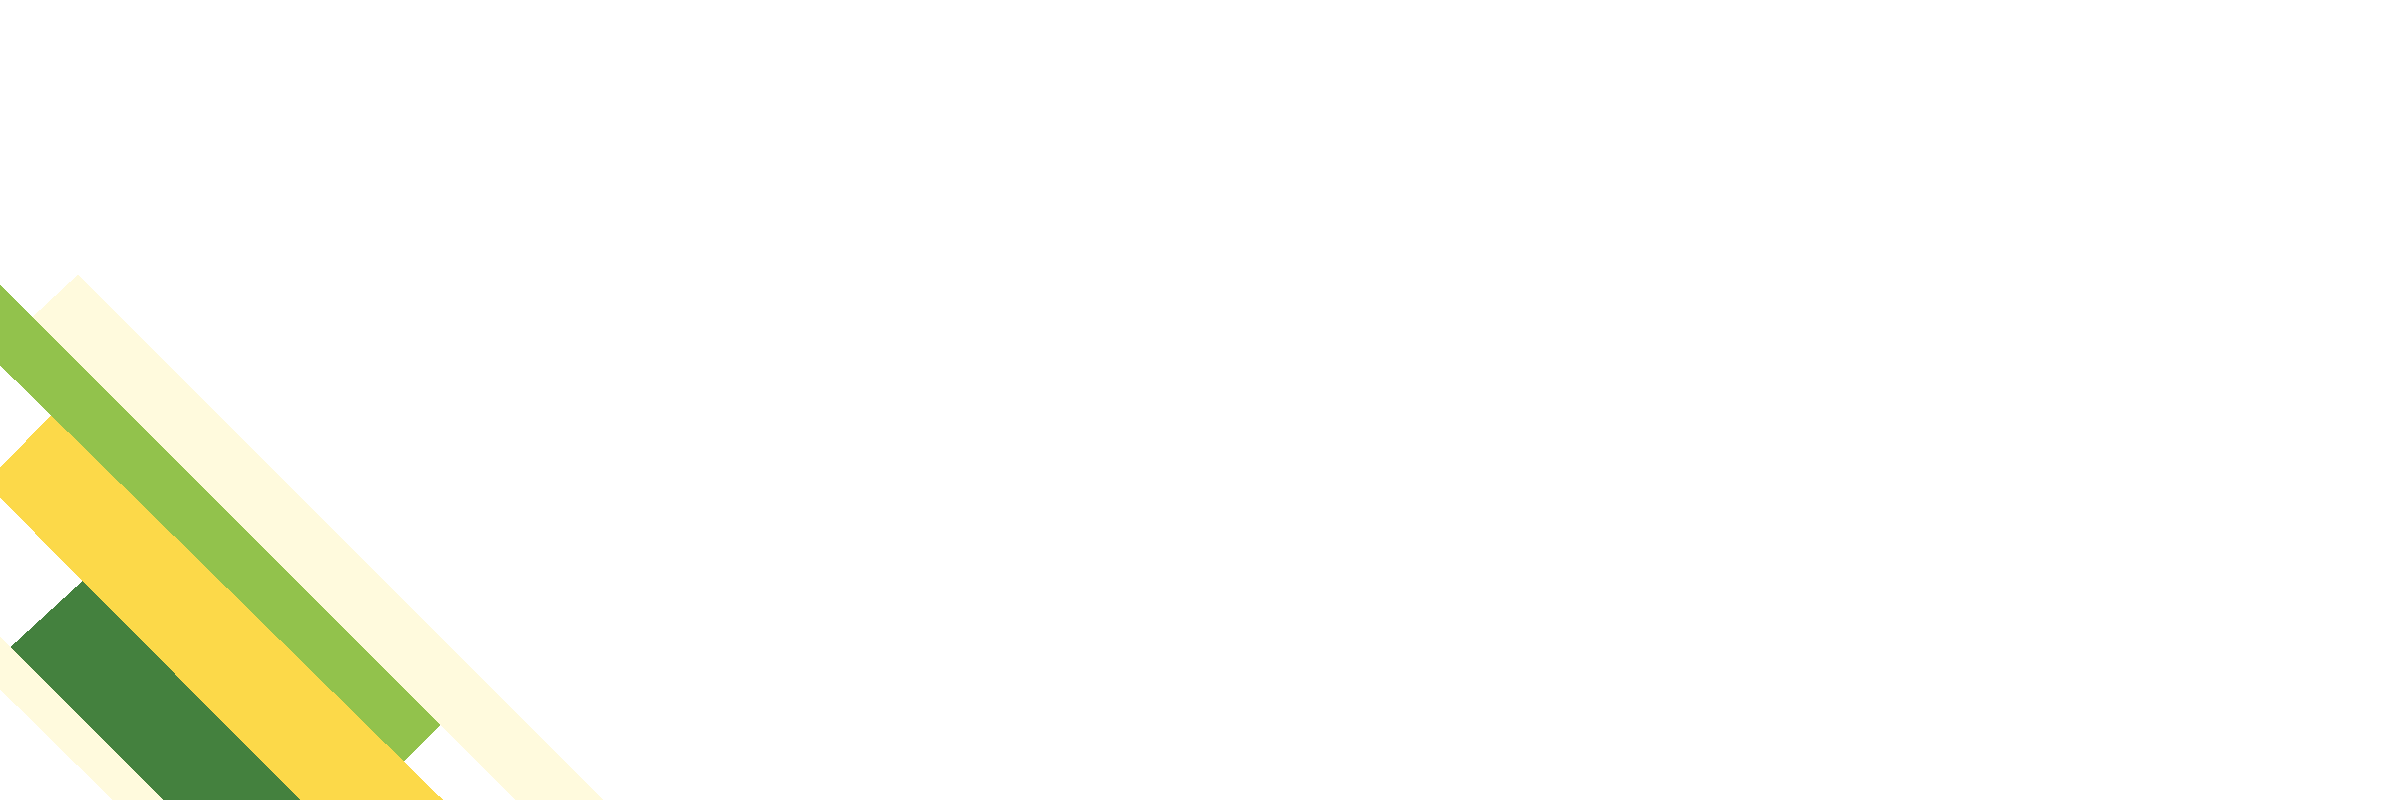
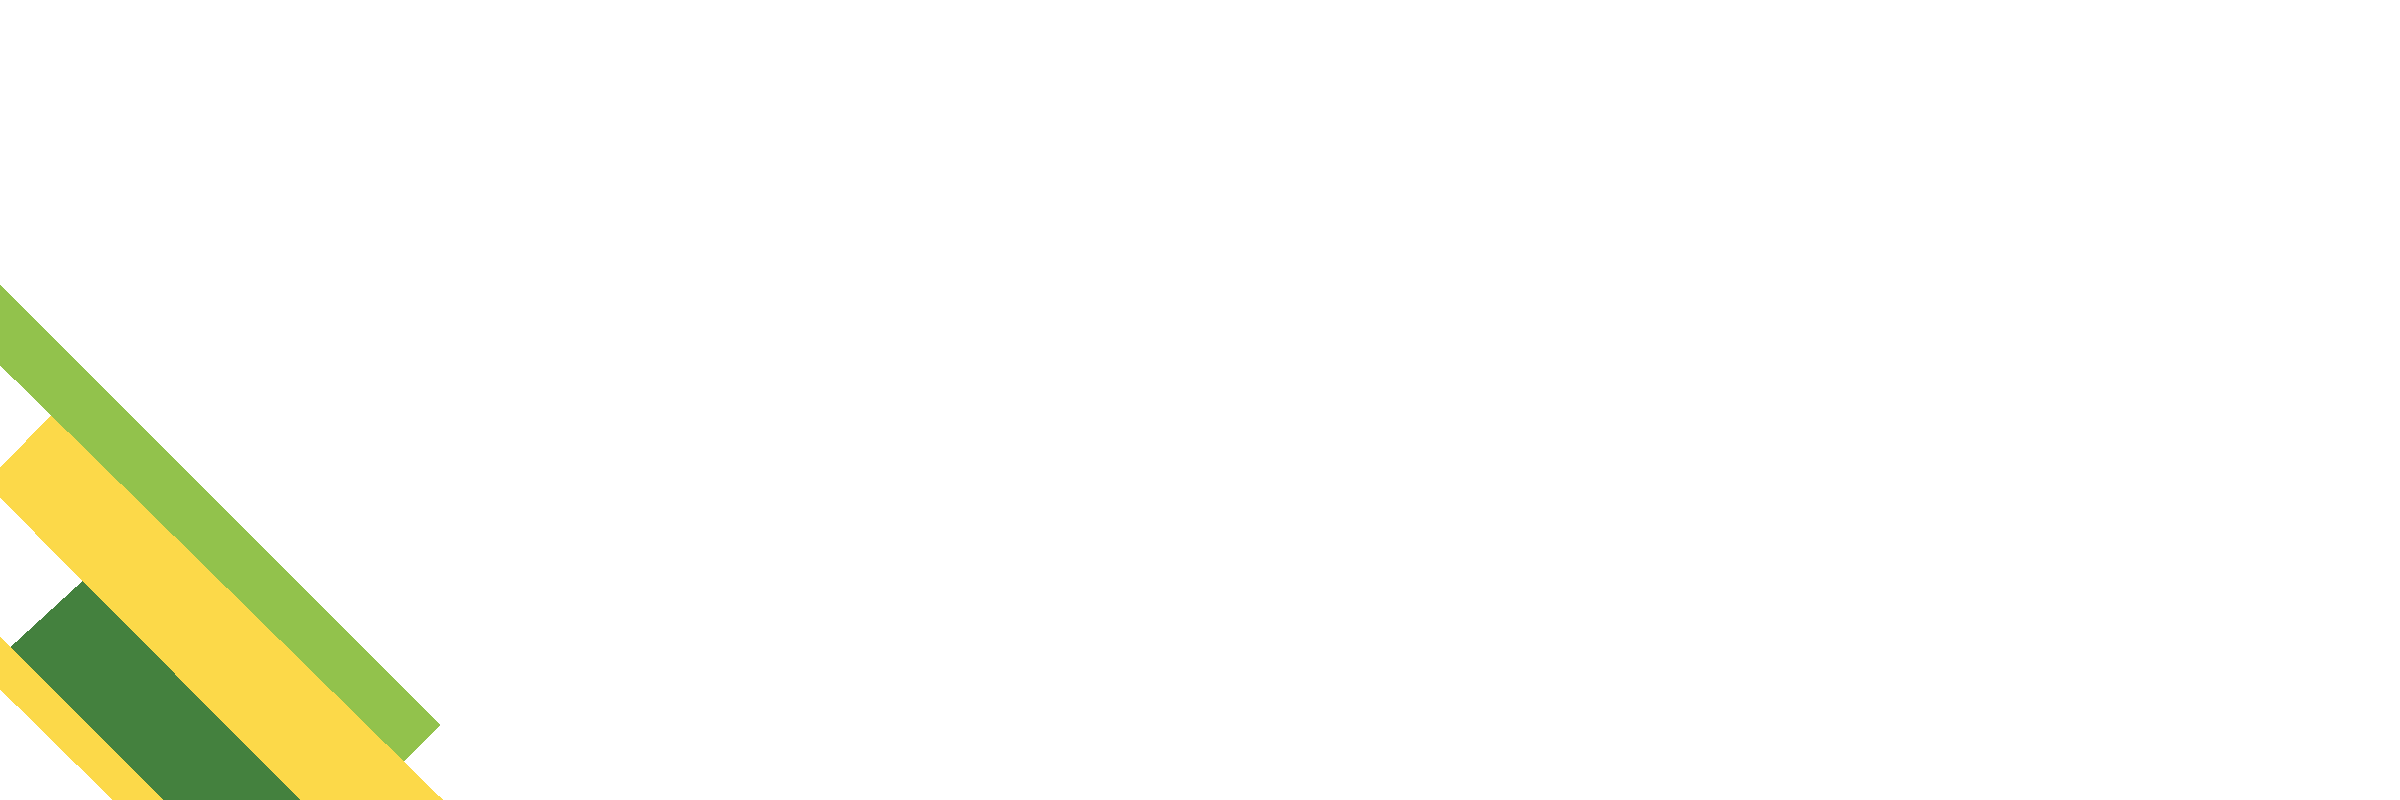
add diagonal line graphic background

Changed region(s): [[0.0, 0.3438, 0.25, 1.0], [0.0, 0.8125, 0.0625, 1.0]]

diff --git a/src/app.css b/src/app.css
@@ -45,3 +45,13 @@ section {
 	display: flex;
 	flex-direction: row;
 }
+
+.recipe-container {
+	height: 100vh;
+	background-image: url("./images/swish-bars.png");
+}
+
+.planning-view {
+	height: 100vh;
+	background-image: url("./images/swish-bars.png");
+}

diff --git a/src/planning-view/css/planning.css b/src/planning-view/css/planning.css
@@ -43,6 +43,7 @@
 
 .planning-section {
 	align-items: center;
+	background-image: url("../../images/swish-bars.png");
 	display: flex;
 	flex-direction: column;
 	width: 100vw;
